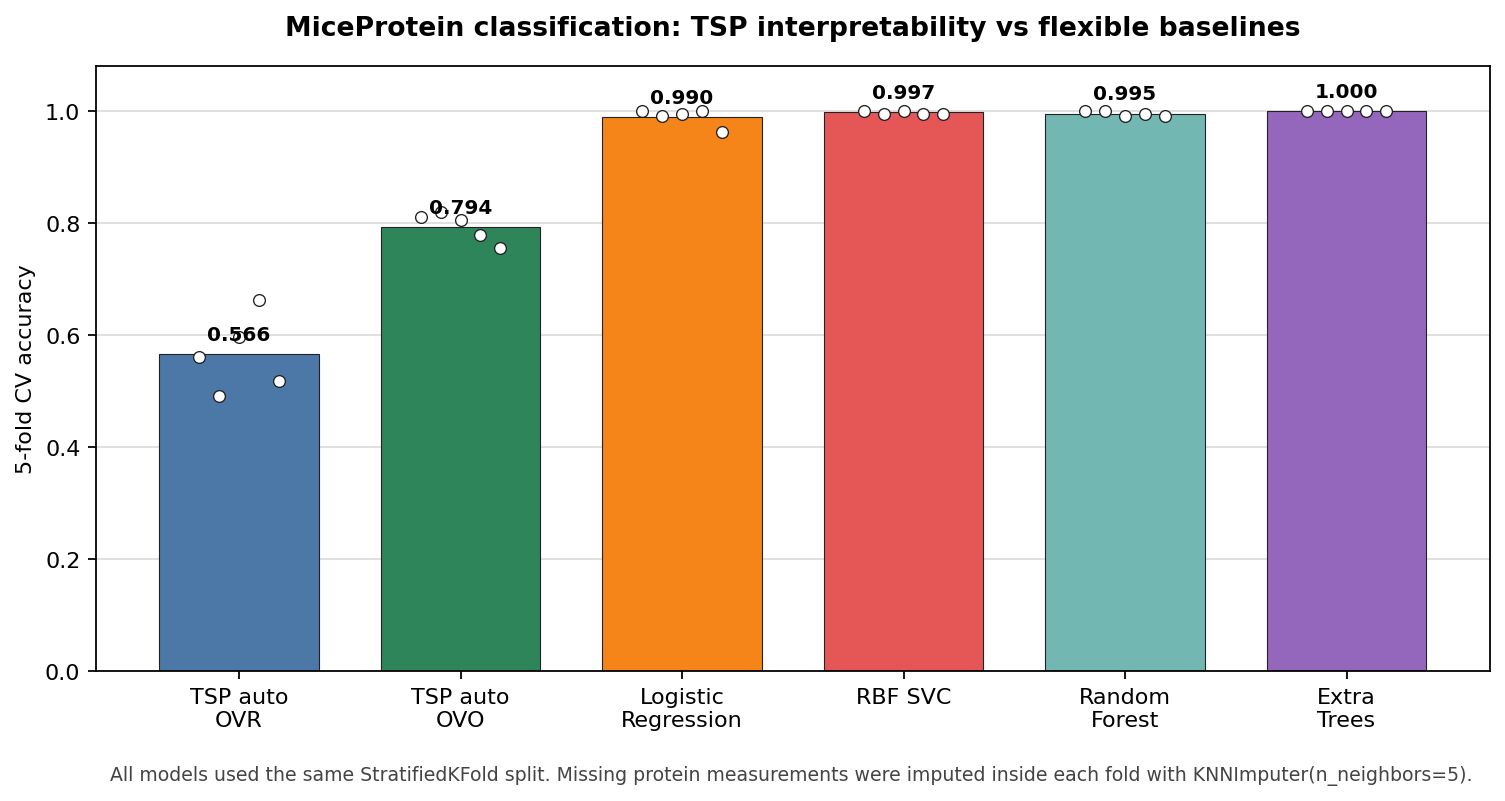
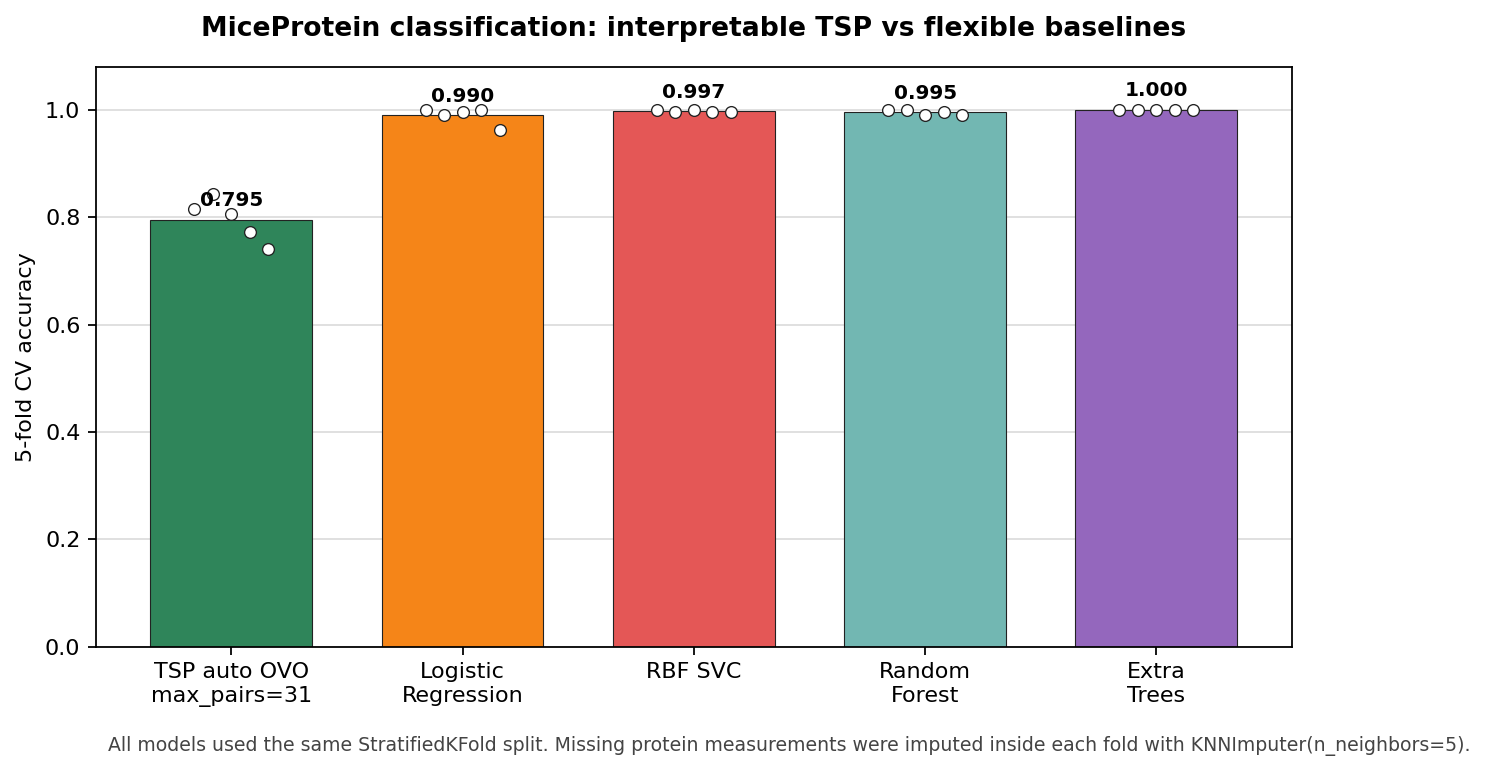
Shorten MiceProtein README example

diff --git a/README.md b/README.md
@@ -103,11 +103,10 @@ Expected output:
 
 ## MiceProtein OpenML Example
 
-`MiceProtein` is a useful real-data example for TSP because it contains
-same-scale biological measurements: 77 protein or protein-modification
-features measured in mouse cerebral cortex. The target is not a known
-protein-pair list. The ground truth is the experimental class label, combining
-genotype, learning stimulation, and treatment.
+`MiceProtein` is a useful real-data example for TSP because it contains 77
+same-scale protein or protein-modification measurements from mouse cerebral
+cortex. The ground truth is the experimental class label, combining genotype,
+learning stimulation, and treatment.
 
 ```python
 import numpy as np
@@ -118,12 +117,7 @@ from sklearn.pipeline import make_pipeline
 
 from TSPClassifier import TSPClassifier
 
-mice = fetch_openml(
-    name="miceprotein",
-    version=4,
-    as_frame=True,
-    parser="auto",
-)
+mice = fetch_openml(name="miceprotein", version=4, as_frame=True, parser="auto")
 X = mice.data.to_numpy(dtype=float)
 y = mice.target.to_numpy()
 
@@ -131,7 +125,7 @@ clf = make_pipeline(
     KNNImputer(n_neighbors=5),
     TSPClassifier(
         n_pairs="auto",
-        max_pairs=9,
+        max_pairs=31,
         cv=5,
         exact_pairs=True,
         multiclass="ovo",
@@ -139,16 +133,14 @@ clf = make_pipeline(
 )
 
 outer_cv = StratifiedKFold(n_splits=5, shuffle=True, random_state=42)
-scores = cross_val_score(clf, X, y, cv=outer_cv)
-print(scores.mean())
+print(cross_val_score(clf, X, y, cv=outer_cv).mean())
 ```
 
 On one fixed 5-fold split, this gave:
 
 | Model | Mean accuracy |
 | --- | ---: |
-| `TSPClassifier`, one-vs-rest | 0.5657 |
-| `TSPClassifier`, one-vs-one | 0.7935 |
+| `TSPClassifier`, one-vs-one | 0.7954 |
 | Logistic regression | 0.9898 |
 | RBF SVC | 0.9972 |
 | Random forest | 0.9954 |
@@ -156,24 +148,9 @@ On one fixed 5-fold split, this gave:
 
 ![MiceProtein model accuracy comparison](docs/images/miceprotein_accuracy.png)
 
-The result is a good illustration of what TSP is for. It is not the highest
-accuracy model on this dataset, but it produces compact, interpretable rules
-using protein-pair orderings. Flexible baselines can classify these experimental
-groups almost perfectly, while TSP trades some accuracy for transparent
-decision rules.
-
-For example, fitting one-vs-rest TSP with `n_pairs="auto"` selected different
-numbers of pair rules for each experimental class:
-
-![MiceProtein selected k by class](docs/images/miceprotein_selected_k.png)
-
-Representative one-vs-rest rules from the full fit include:
-
-```text
-c-CS-m: SOD1_N < pNUMB_N; ITSN1_N < pERK_N; Ubiquitin_N < CaNA_N
-t-CS-m: BRAF_N > TIAM1_N
-t-SC-s: MTOR_N < pP70S6_N; pPKCG_N > PSD95_N; AcetylH3K9_N > nNOS_N
-```
+On this dataset, flexible baselines classify the experimental groups almost
+perfectly. TSP is lower-accuracy but returns transparent protein-pair ordering
+rules instead of opaque multifeature decision boundaries.
 
 ## API
 